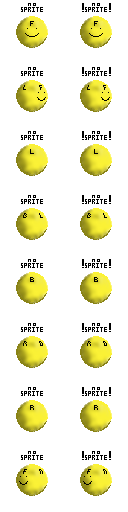
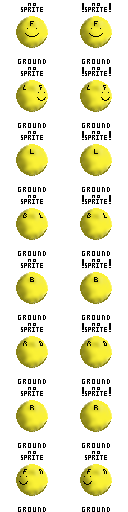
Fixed RenderObjects not working properly due to invalid Radian/Degree conversions

diff --git a/src/js/renderBase/viewbase.js b/src/js/renderBase/viewbase.js
@@ -1,4 +1,4 @@
-import { Actor, Vector, SpriteSheet, Sprite, toRadians } from 'excalibur'
+import { Actor, Vector, SpriteSheet, Sprite, toRadians, toDegrees } from 'excalibur'
 import { RenderObject } from './renderbase'
 import { getQuadFacing, getOctFacing, addAngle} from '../functions'
 
@@ -17,7 +17,6 @@ export class ViewObject extends Actor {
     }
 
     onInitialize(engine) {
-        console.log(this.linked.test)
     }
 
     onPreUpdate(engine) {
@@ -37,14 +36,17 @@ export class ViewObject extends Actor {
 
         let frame = Math.floor(this.animTime / this.frameDuration) % this.totalFrames
 
-        let playerDir = this.PLAYER.dir
-
+        let playerDir = this.PLAYER.rotation
+        
         let rowdir = this.getRow(addAngle(playerDir, this.linked.dir))
+
+        console.log(playerDir, this.linked.dir)
+
 
         let sprite = this.linked.sheet.getSprite(frame, rowdir)
 
-        this.graphics.use(this.linked.sheet.getSprite(frame, rowdir)
-    )
+        this.graphics.use(this.linked.sheet.getSprite(frame, rowdir))
+        
 
     }
 
@@ -66,22 +68,22 @@ export class ViewObject extends Actor {
         let toObj = this.linked.pos.sub(this.PLAYER.pos)
         let angleToObj = Math.atan2(toObj.y, toObj.x)
 
-        let relative = this.normalizeAngle(angleToObj - this.PLAYER.dir)
+        let relative = this.normalizeAngle(angleToObj - this.PLAYER.rotation)
 
         this.pos.x = (relative / this.FOV + 0.5) * 1280
         
         let dist = toObj.magnitude
         let scalar = 1 / (dist + 0.0001)
+        scalar = scalar * 15.5
         this.scale.x = scalar
         this.scale.y = scalar
 
         this.pos.y = (720 / 2) - (this.linked.vertical / (dist + 0.0001))
 
-        console.log(this.pos)
     }
 
     normalizeAngle(dir) {
        let  temp = toRadians(dir)
-        return(Math.atan2(Math.sin(temp), Math.cos(temp)))
+        return(Math.atan2(Math.sin(dir), Math.cos(dir)))
     }
 }

diff --git a/src/js/maps/level1/MapLevel1.js b/src/js/maps/level1/MapLevel1.js
@@ -1,16 +1,17 @@
-import { Scene, Canvas, Actor, CollisionType } from 'excalibur'
+import { Scene, Canvas, Actor, CollisionType, Vector } from 'excalibur'
 import wallTextureUrl from './assets/walls/wall1.png'
 import treewallTextureUrl from './assets/walls/treewall.png'
 import doorTextureUrl from './assets/walls/door.png'
 import { Player } from '../../player.js'
+import { RenderObject } from '../../renderBase/renderbase.js'
 
 // . = floor, # = wall, T = treewall, D = door
 export const MAP = [
     '####################',
     '#..................#',
-    '#.##..#.TTT.#.#.##.#',
-    '#.#.........#..#.#.#',
-    '#.#.####..#.TTTT.#.#',
+    '#.##..#.....#.#.##.#',
+    '#.#0........#..#.#.#',
+    '#.#....0....TTTT.#.#',
     '#..................D',
     '#.#.TTTT.#.#.####..#',
     '#.#.........#.#..#.#',
@@ -42,6 +43,11 @@ export class MapLevel1 extends Scene {
                         collisionType: CollisionType.Fixed,
                     })
                     this.add(wall)
+                }
+
+                if (MAP[y][x] === '0') {
+                    const obj = new RenderObject(new Vector(x, y), 90, this.player)
+                    this.add(obj)
                 }
             }
         }

diff --git a/src/js/functions.js b/src/js/functions.js
@@ -28,11 +28,11 @@ export function vectorDiff(from, to) { // gets vector, probably no use but it ex
 export function getQuadFacing(dir) {
     let slice = (Math.PI * 2) / 4
     let temp = toRadians(dir)
-    return Math.round(temp / slice) & 3
+    return Math.round(dir / slice) & 3
 }
 
 export function getOctFacing(dir) { // gets octagonal facing based on angle from topdown perspective
     let slice = (Math.PI * 2) / 8
     let temp = toRadians(dir)
-    return Math.round(temp / slice) & 7
+    return Math.round(dir / slice) & 7
 }

diff --git a/src/js/renderBase/renderbase.js b/src/js/renderBase/renderbase.js
@@ -16,8 +16,6 @@ export class RenderObject extends Actor {
         this.dir = dir
         this.pos = spawnerPos
 
-
-
         this.speed = 0
 
         this.linked = new ViewObject(this)